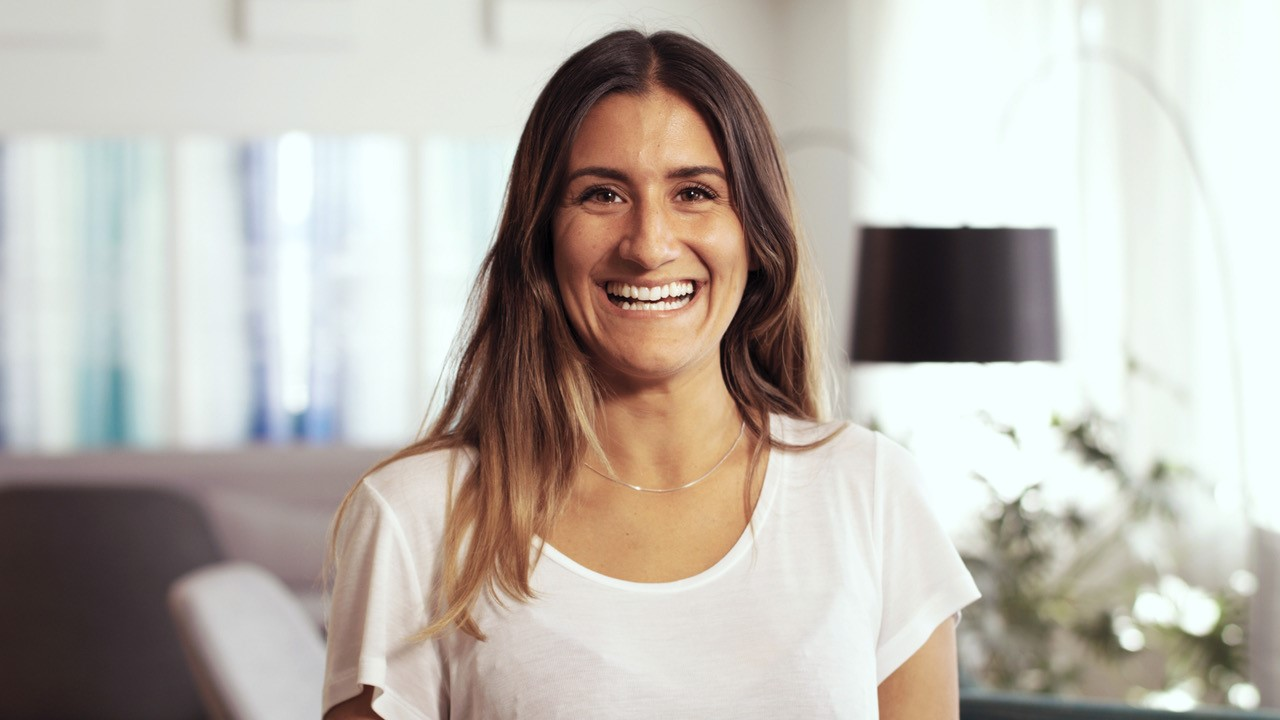
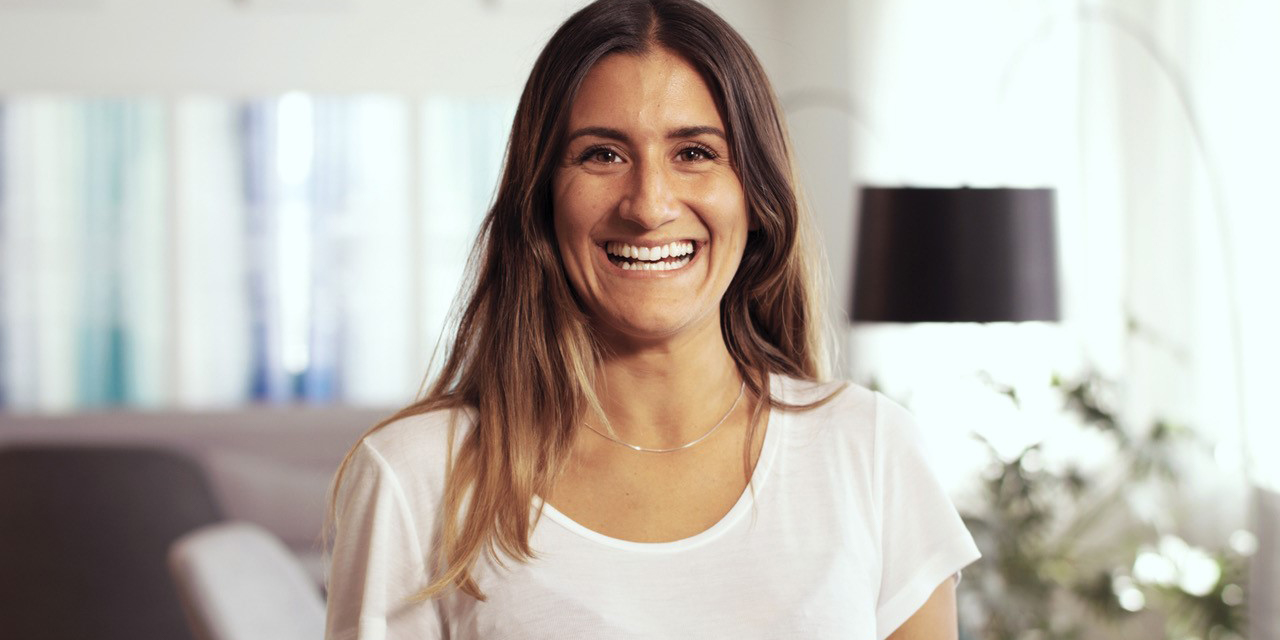
styling and cut image

diff --git a/src/css/design/design.css b/src/css/design/design.css
@@ -69,7 +69,6 @@
   width: 100%;
   color: black;
   padding: 20px;
-  padding-bottom: 0;
 }
 
 .slogan-container h1 {
@@ -102,7 +101,8 @@
 }
 
 .below-container > div {
-  /* margin-left: 16px; */
+    margin-top: 35px;
+
 }
 
 .below-container > div:nth-child(2) {
@@ -121,21 +121,49 @@
 .image-container {
   overflow: hidden;
   width: 400px;
+  font-size: 20px;
+  text-align: left
 
+}
+.image-container > div:last-child{
+    display: flex;
+    justify-content: space-between;
+    flex-direction: column;
+    padding-left:25px;
+    padding-right: 25px;
+}
+.image-container > div:last-child p{
+    font-size: 14px;
+    margin-top:10px;
+}
+
+.image-container h4{
+    text-align: left;
+    margin:0;
+    font-size: 17px;
+    text-decoration: none;
+    color:black;
+
+
+}
+.carrear-underline{
+    width: fit-content; 
+    margin-bottom: 20px;
+    border-bottom:2px solid white;
+}
+
+.image-container h2 {
+    text-align: left;
+    margin:0;
+    font-size: 24px;
 }
 
 .below-container > div img {
     width: 400px;
-
 }
 
-#employe{
-    position: relative;
-}
-#employe img {
-    position: absolute;
-    top:-13px;
-}
+
+
 /* #employe img{
   position: relative;
   top: -13px;
@@ -165,11 +193,45 @@
   .main-container {
     height: 350px;
   }
+  .below-container > div {
+    margin-left: 20px;
+}
 }
 
 @media screen and (min-width: 880px) {
+  
   .main-container {
     height: 440px;
+  }
+ 
+  .below-container{
+      padding-top:20px;
+      
+  }
+  
+  .image-container h2 {
+    
+    text-align: left;
+    margin:0;
+    font-size: 20px;
+}
+ 
+.image-container > div:last-child{
+   padding-top:20px;
+}
+
+
+.image-container h4{
+    margin-top:20px;
+    font-size: 15px;
+
+
+}
+}
+
+@media screen and (min-width: 1024px) {
+  .main-container {
+    height: 530px;
   }
   .slogan-container {
     position: absolute;
@@ -181,13 +243,6 @@
     font-size: 35px;
     letter-spacing: 10px;
     margin-bottom: 10px;
-  }
-  
-}
-
-@media screen and (min-width: 1024px) {
-  .main-container {
-    height: 530px;
   }
   /* .slogan-container {
     position: absolute;

diff --git a/src/components/design/Design.js b/src/components/design/Design.js
@@ -51,7 +51,9 @@ const Design = () => (
               digitalisering och innovation? Hos oss driver du förändring och är
               med och formar framtiden med den senaste tekniken.
             </p>
-            <h4>TA NÄSTA STEG I DIN KARRIÄR</h4>
+            <div className="carrear-underline">
+              <h4>TA NÄSTA STEG I DIN KARRIÄR</h4>
+            </div>
           </div>
         </div>
       </div>
@@ -67,13 +69,16 @@ const Design = () => (
               rekommenderar oss gärna för vänner och bekanta. Här berättar några
               kollegor om hur det är att arbeta hos oss.
             </p>
+            <div className="carrear-underline">
+
             <h4>TRÄFFA VÅRA MEDARBETARE</h4>
+            </div>
           </div>
         </div>
       </div>
       <div>
         <div className="image-container">
-          <div id="employe">
+          <div>
             <img src={employeImage} alt="employe" />
           </div>
           <div>
@@ -83,8 +88,10 @@ const Design = () => (
               Hos oss har du alla möjligheter att utvecklas och växa som person
               samtidigt som du är del av ett stöttande team.
             </p>
+            <div className="carrear-underline">
 
             <h4>SÖK JOBB PÅ KNOWIT</h4>
+            </div>
           </div>
         </div>
       </div>
